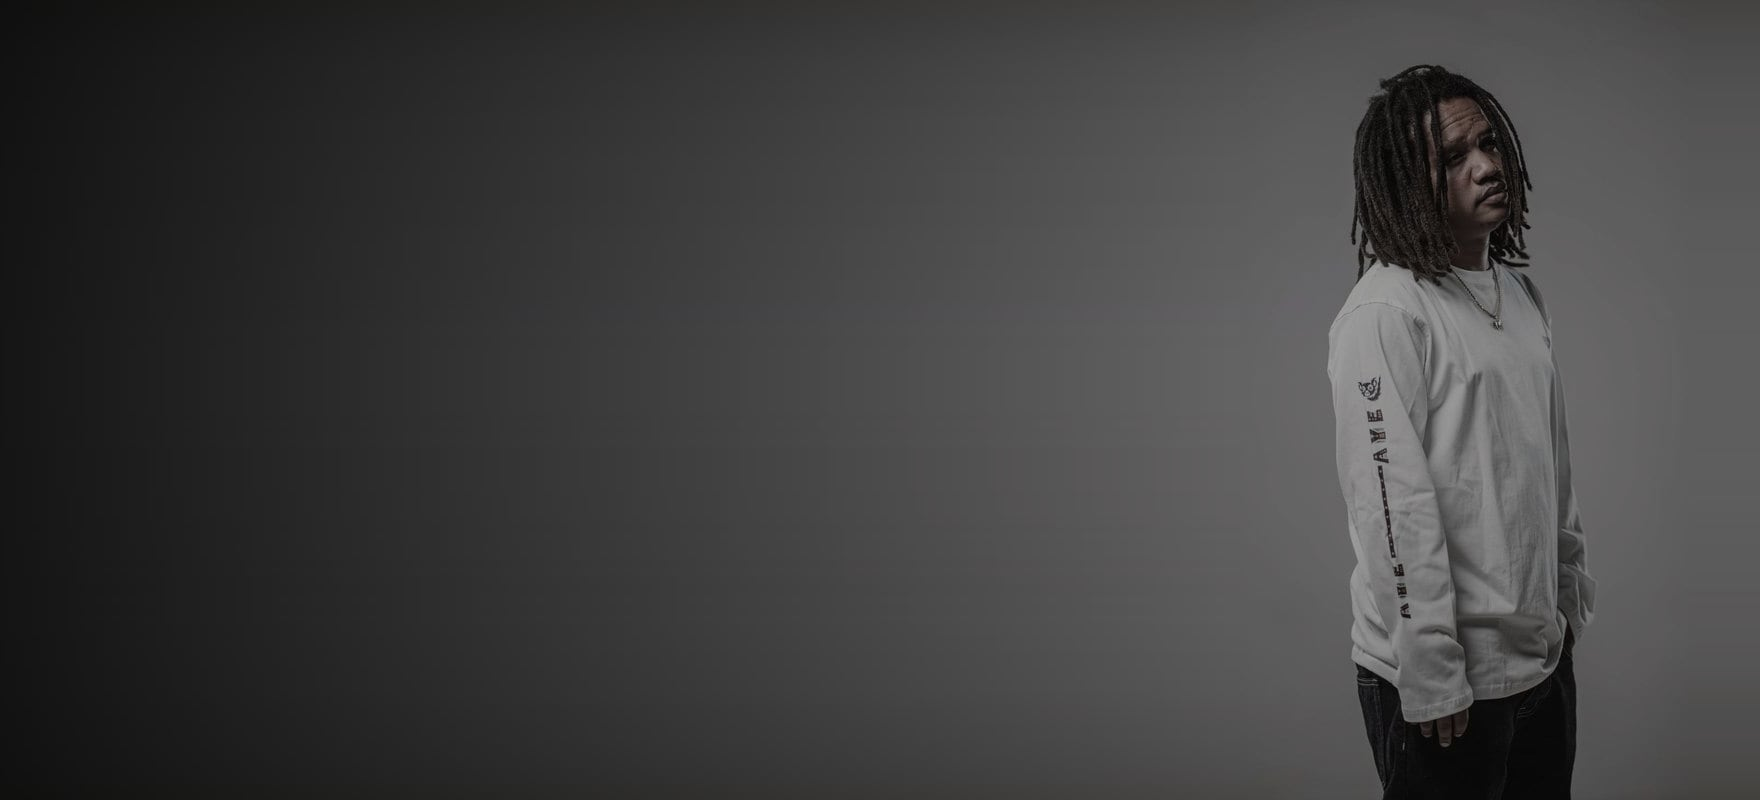
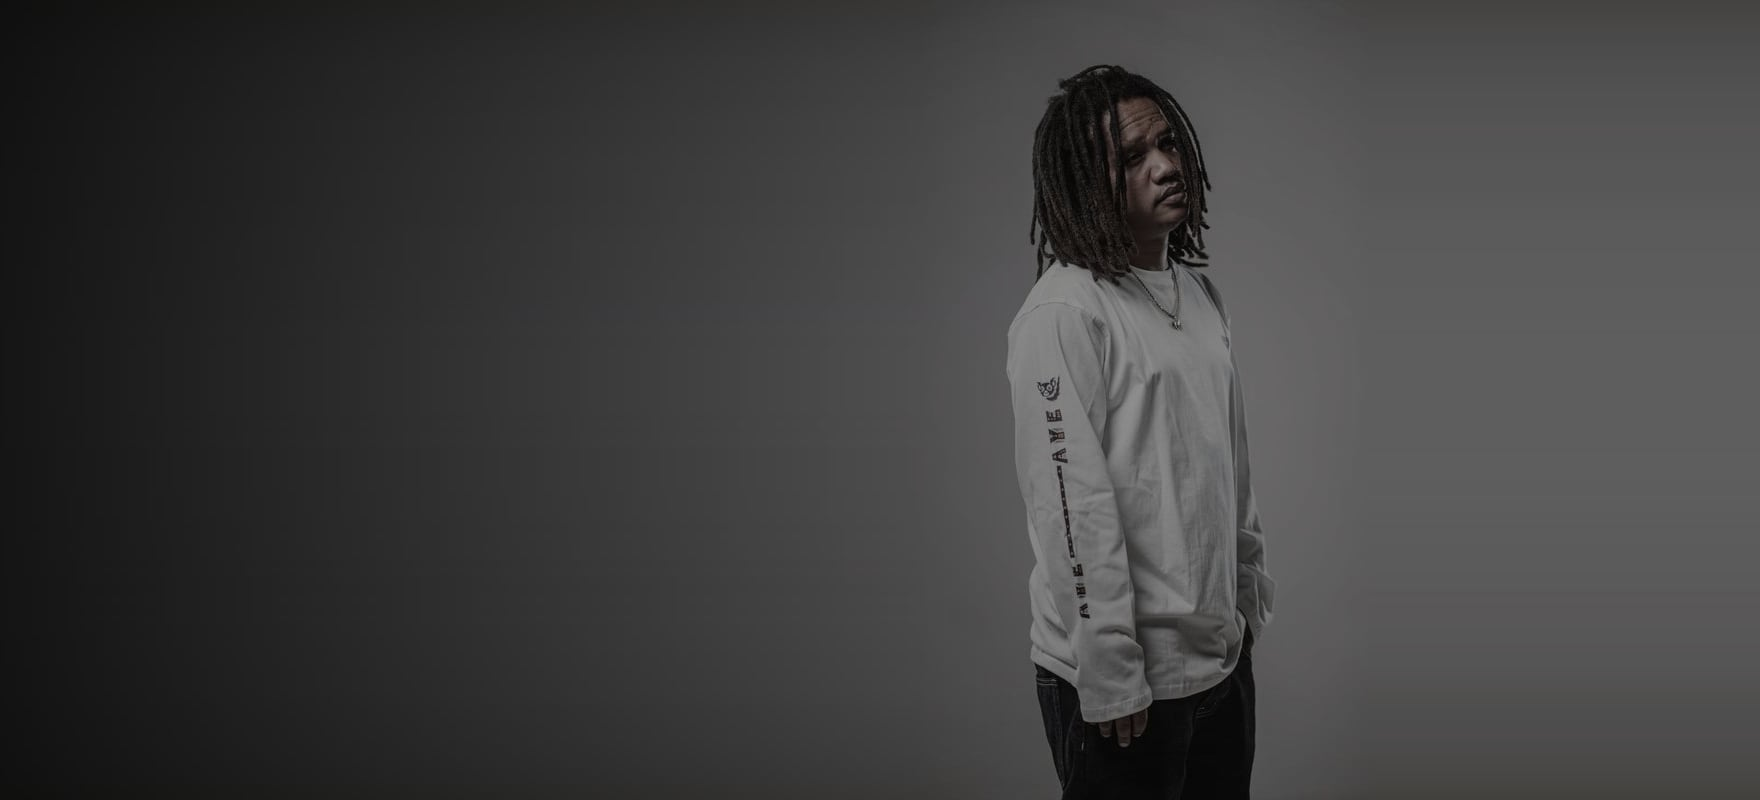
Bannière : personnage au centre, un peu à droite
- Image panoramique régénérée, personnage centré à 65 % de la largeur.
- object-position 65 % : il reste à cette place à toutes les largeurs.
- Texte limité à 42 % (40 % entre 992 et 1279 px) et hauteur plafonnée
  pour garder au moins 30 px entre le texte et le personnage, sans jamais
  rogner sa tête.

Changed region(s): [[0.75, 0.0625, 0.9062, 1.0], [0.5625, 0.0625, 0.7188, 1.0]]

diff --git a/public/assets/css/aye-aye.css b/public/assets/css/aye-aye.css
@@ -424,22 +424,36 @@ footer .aye-logo img[width][height] {
 }
 
 /* Ordinateur : la banniere remplit la hauteur de l'ecran sous l'en-tete.
-   L'image panoramique (2,2:1) y est en cover, ancree a droite : quand l'ecran
-   est plus haut que l'image, seul le fond sombre de gauche est rogne, jamais
-   le personnage (photo entiere a droite).
-   - max(...) : jamais moins haut que l'image elle-meme (100vw / 2,2), sinon
-     cover rognerait le haut et le bas ;
-   - min(..., 84,2vw - 219px) : plafond ou le personnage (a 27 % du bord droit
-     de l'image) reste a 30 px du texte (100 px + 50 % de la largeur). */
+   L'image panoramique (2,2:1, personnage centre a 65 % de sa largeur) y est
+   en cover avec object-position 65 % : le personnage reste a 65 % de l'ecran,
+   « au centre, un peu a droite ». Quand l'ecran est plus haut que l'image,
+   seul du fond est rogne sur les cotes, jamais le personnage.
+   - max(100vw / 2,2, ...) : jamais moins haut que l'image elle-meme, sinon
+     cover rognerait le haut (la tete) et le bas ;
+   - min(100vh - 120px, 81,8vw - 462px) : hauteur de l'ecran, plafonnee pour
+     que le personnage (450 px de large a 800 px de haut) reste a 30 px du
+     texte (100 px + 42 % de la largeur). */
 @media (min-width: 992px) {
+  .main-banner .left-content .inner-content {
+    max-width: 42%;
+  }
   .main-banner .left-content .thumb {
     position: relative;
     overflow: hidden;
   }
   .main-banner .left-content .thumb img[width][height] {
-    height: min(max(calc(100vh - 120px), calc(100vw / 2.2)), calc(84.2vw - 219px));
+    height: max(calc(100vw / 2.2), min(calc(100vh - 120px), calc(81.8vw - 462px)));
     object-fit: cover;
-    object-position: right center;
+    object-position: 65% center;
+  }
+}
+
+/* 992 a 1279 px : l'image est a sa hauteur naturelle ; le texte se rapproche
+   du bord et se resserre pour laisser 30 px avant le personnage */
+@media (min-width: 992px) and (max-width: 1279px) {
+  .main-banner .left-content .inner-content {
+    left: 60px;
+    max-width: 40%;
   }
 }
 

diff --git a/CLAUDE.md b/CLAUDE.md
@@ -97,7 +97,7 @@ Read paths (`CompteurPanier`, `PanierDetail`, `Favoris`) are normal client compo
 
 ### Home banner
 
-One banner only, full width (`col-12`): the owner had the four Homme / Femme / Enfant / Accessoires tiles removed, on desktop and mobile; don't bring them back. Its `<picture>` serves `banniere/principale-mobile.jpg` (portrait, full screen) under 768 px, `banniere/principale-tablette.jpg` (1050×700, text moved to `left: 40px; width: 54%` so it stays off the white shirt) from 768 to 991 px, and `banniere/principale-large.jpg` (1760×800, subject whole on the right, dark backdrop on the left under the text) from 992 px, all made by `photos-cadrees.mjs`. From 768 px the banner is full bleed (no side gutters) and starts right under the 120 px header (no 60 px gap). From 992 px it fills the screen height: the panoramic image is `object-fit: cover` anchored right, with `height: min(max(100vh - 120px, 100vw / 2.2), 84.2vw - 219px)`; the `max` never lets it be shorter than the image (no top/bottom crop), the `min` caps it so the subject stays ≥ 30 px from the text. Only the dark left backdrop is ever trimmed.
+One banner only, full width (`col-12`): the owner had the four Homme / Femme / Enfant / Accessoires tiles removed, on desktop and mobile; don't bring them back. Its `<picture>` serves `banniere/principale-mobile.jpg` (portrait, full screen) under 768 px, `banniere/principale-tablette.jpg` (1050×700, text moved to `left: 40px; width: 54%` so it stays off the white shirt) from 768 to 991 px, and `banniere/principale-large.jpg` (1760×800, subject whole and centred at 65 % of the width, « au centre, un peu à droite » at the owner's request, dark backdrop on the left under the text) from 992 px, all made by `photos-cadrees.mjs`. From 768 px the banner is full bleed (no side gutters) and starts right under the 120 px header (no 60 px gap). From 992 px it fills the screen height: the panoramic image is `object-fit: cover` with `object-position: 65% center` (the subject stays at 65 % of the screen), and `height: max(100vw / 2.2, min(100vh - 120px, 81.8vw - 462px))`: never shorter than the image (no top/bottom crop, the head is never cut), otherwise the screen height, capped so the subject stays ≥ 30 px from the text. The text box is `max-width: 42%` (40 % and `left: 60px` from 992 to 1279 px). Those numbers depend on the 65 % position in `photos-cadrees.mjs`: change both together. Only backdrop is ever trimmed.
 
 ### Card frame
 
